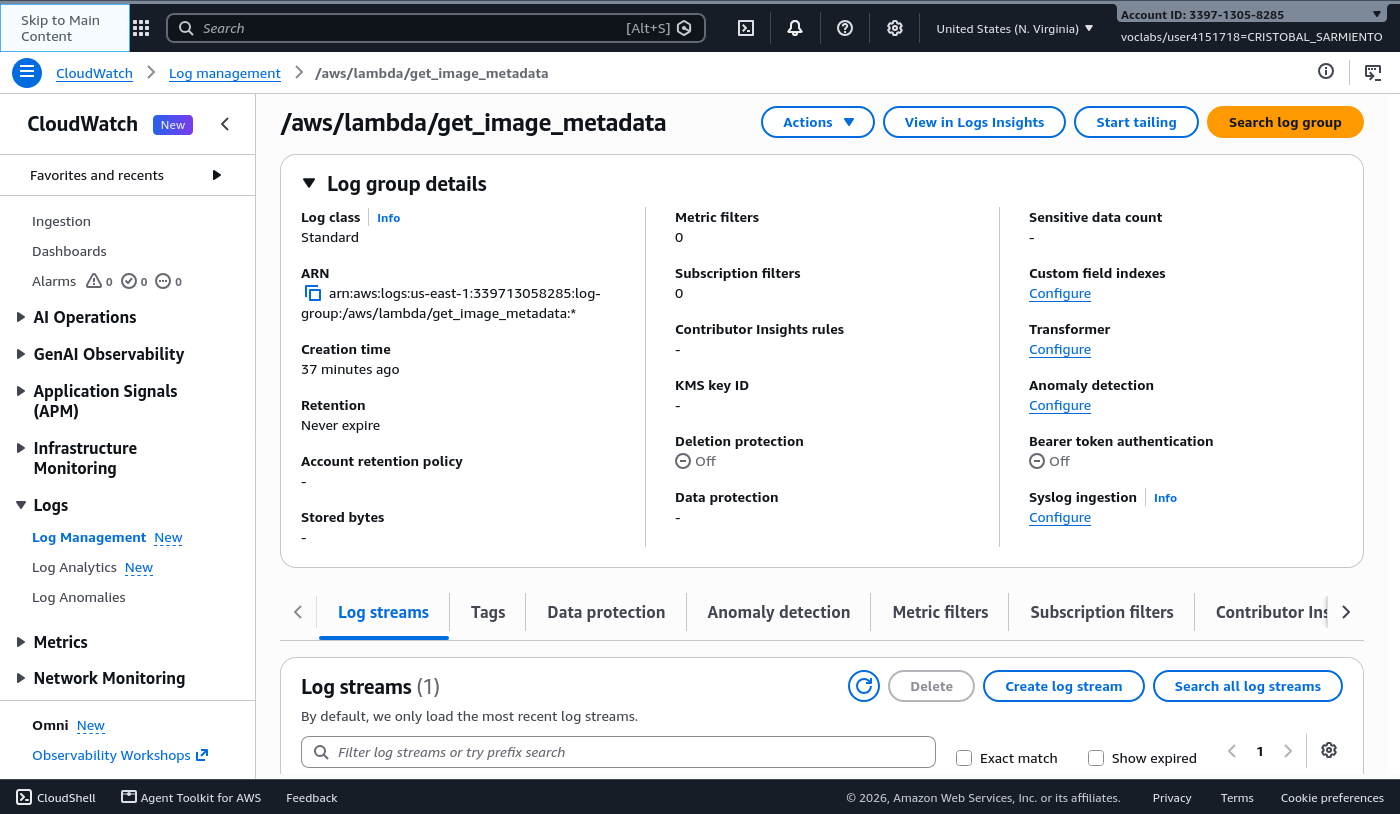
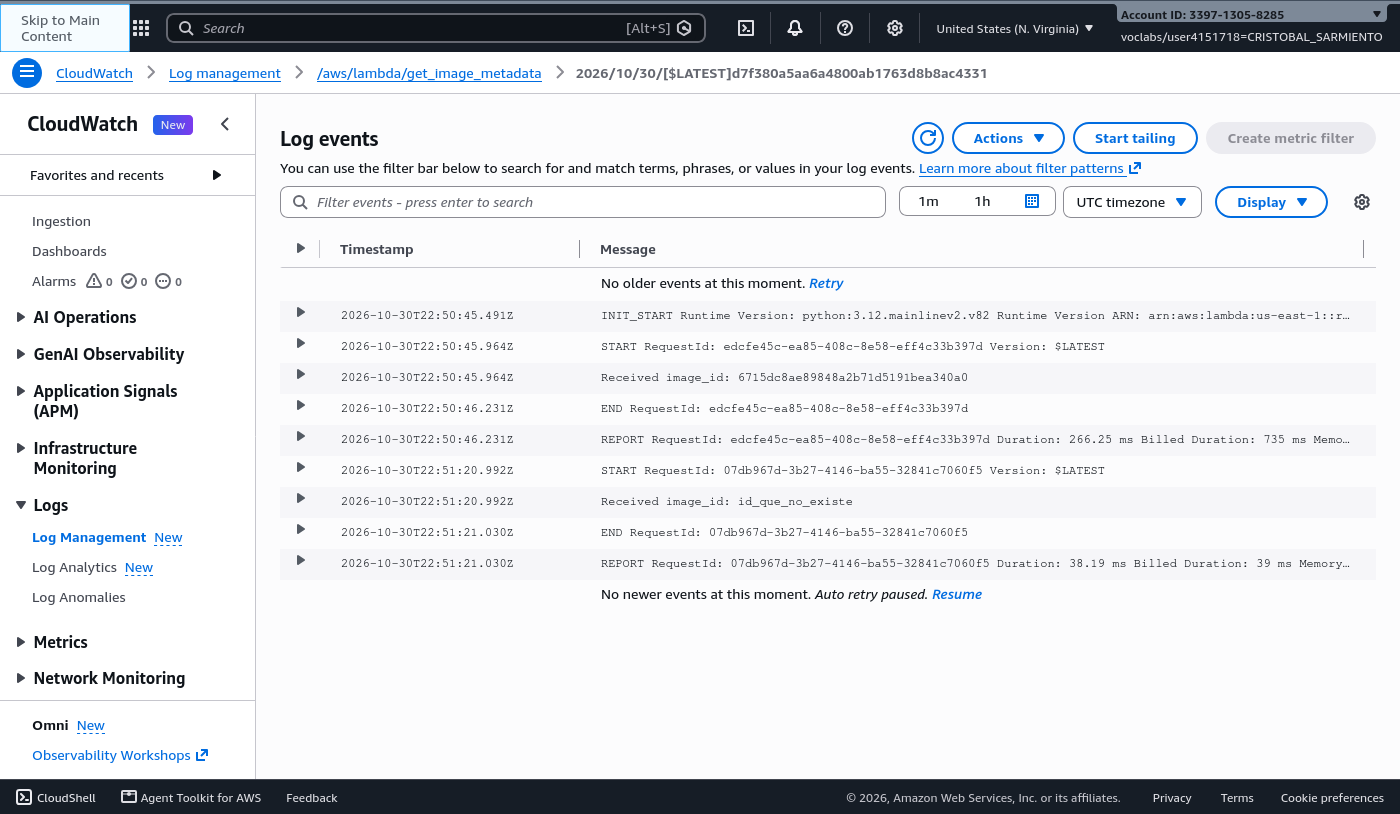
Corregir capturas de CloudWatch (logs y metricas)
Reemplazar capturas en blanco de CloudWatch Logs con
capturas funcionales del log stream y metricas de Lambda.

diff --git a/README.md b/README.md
@@ -617,13 +617,11 @@ Las métricas confirman que las invocaciones fueron exitosas (0 errores) con tie
 
 ![CloudWatch Logs y Metricas](img/10_cloudwatch_logs.png)
 
-**Vista en la consola AWS — CloudWatch Log Groups de las Lambdas:**
+**Vista en la consola AWS — CloudWatch Log Events de `get_image_metadata` mostrando los logs de ejecución:**
 
-![Consola AWS CloudWatch upload](img/aws_05_cloudwatch_upload.png)
+![Consola AWS CloudWatch Logs](img/aws_05b_cloudwatch_get.png)
 
-![Consola AWS CloudWatch get](img/aws_05b_cloudwatch_get.png)
-
-**Vista en la consola AWS — Pestaña Monitor de Lambda con métricas de invocaciones:**
+**Vista en la consola AWS — Pestaña Monitor de Lambda `upload_image` con gráficos de Invocations, Duration, Error count y Success rate:**
 
 ![Consola AWS Lambda Monitor](img/aws_06_cloudwatch_metrics.png)
 
